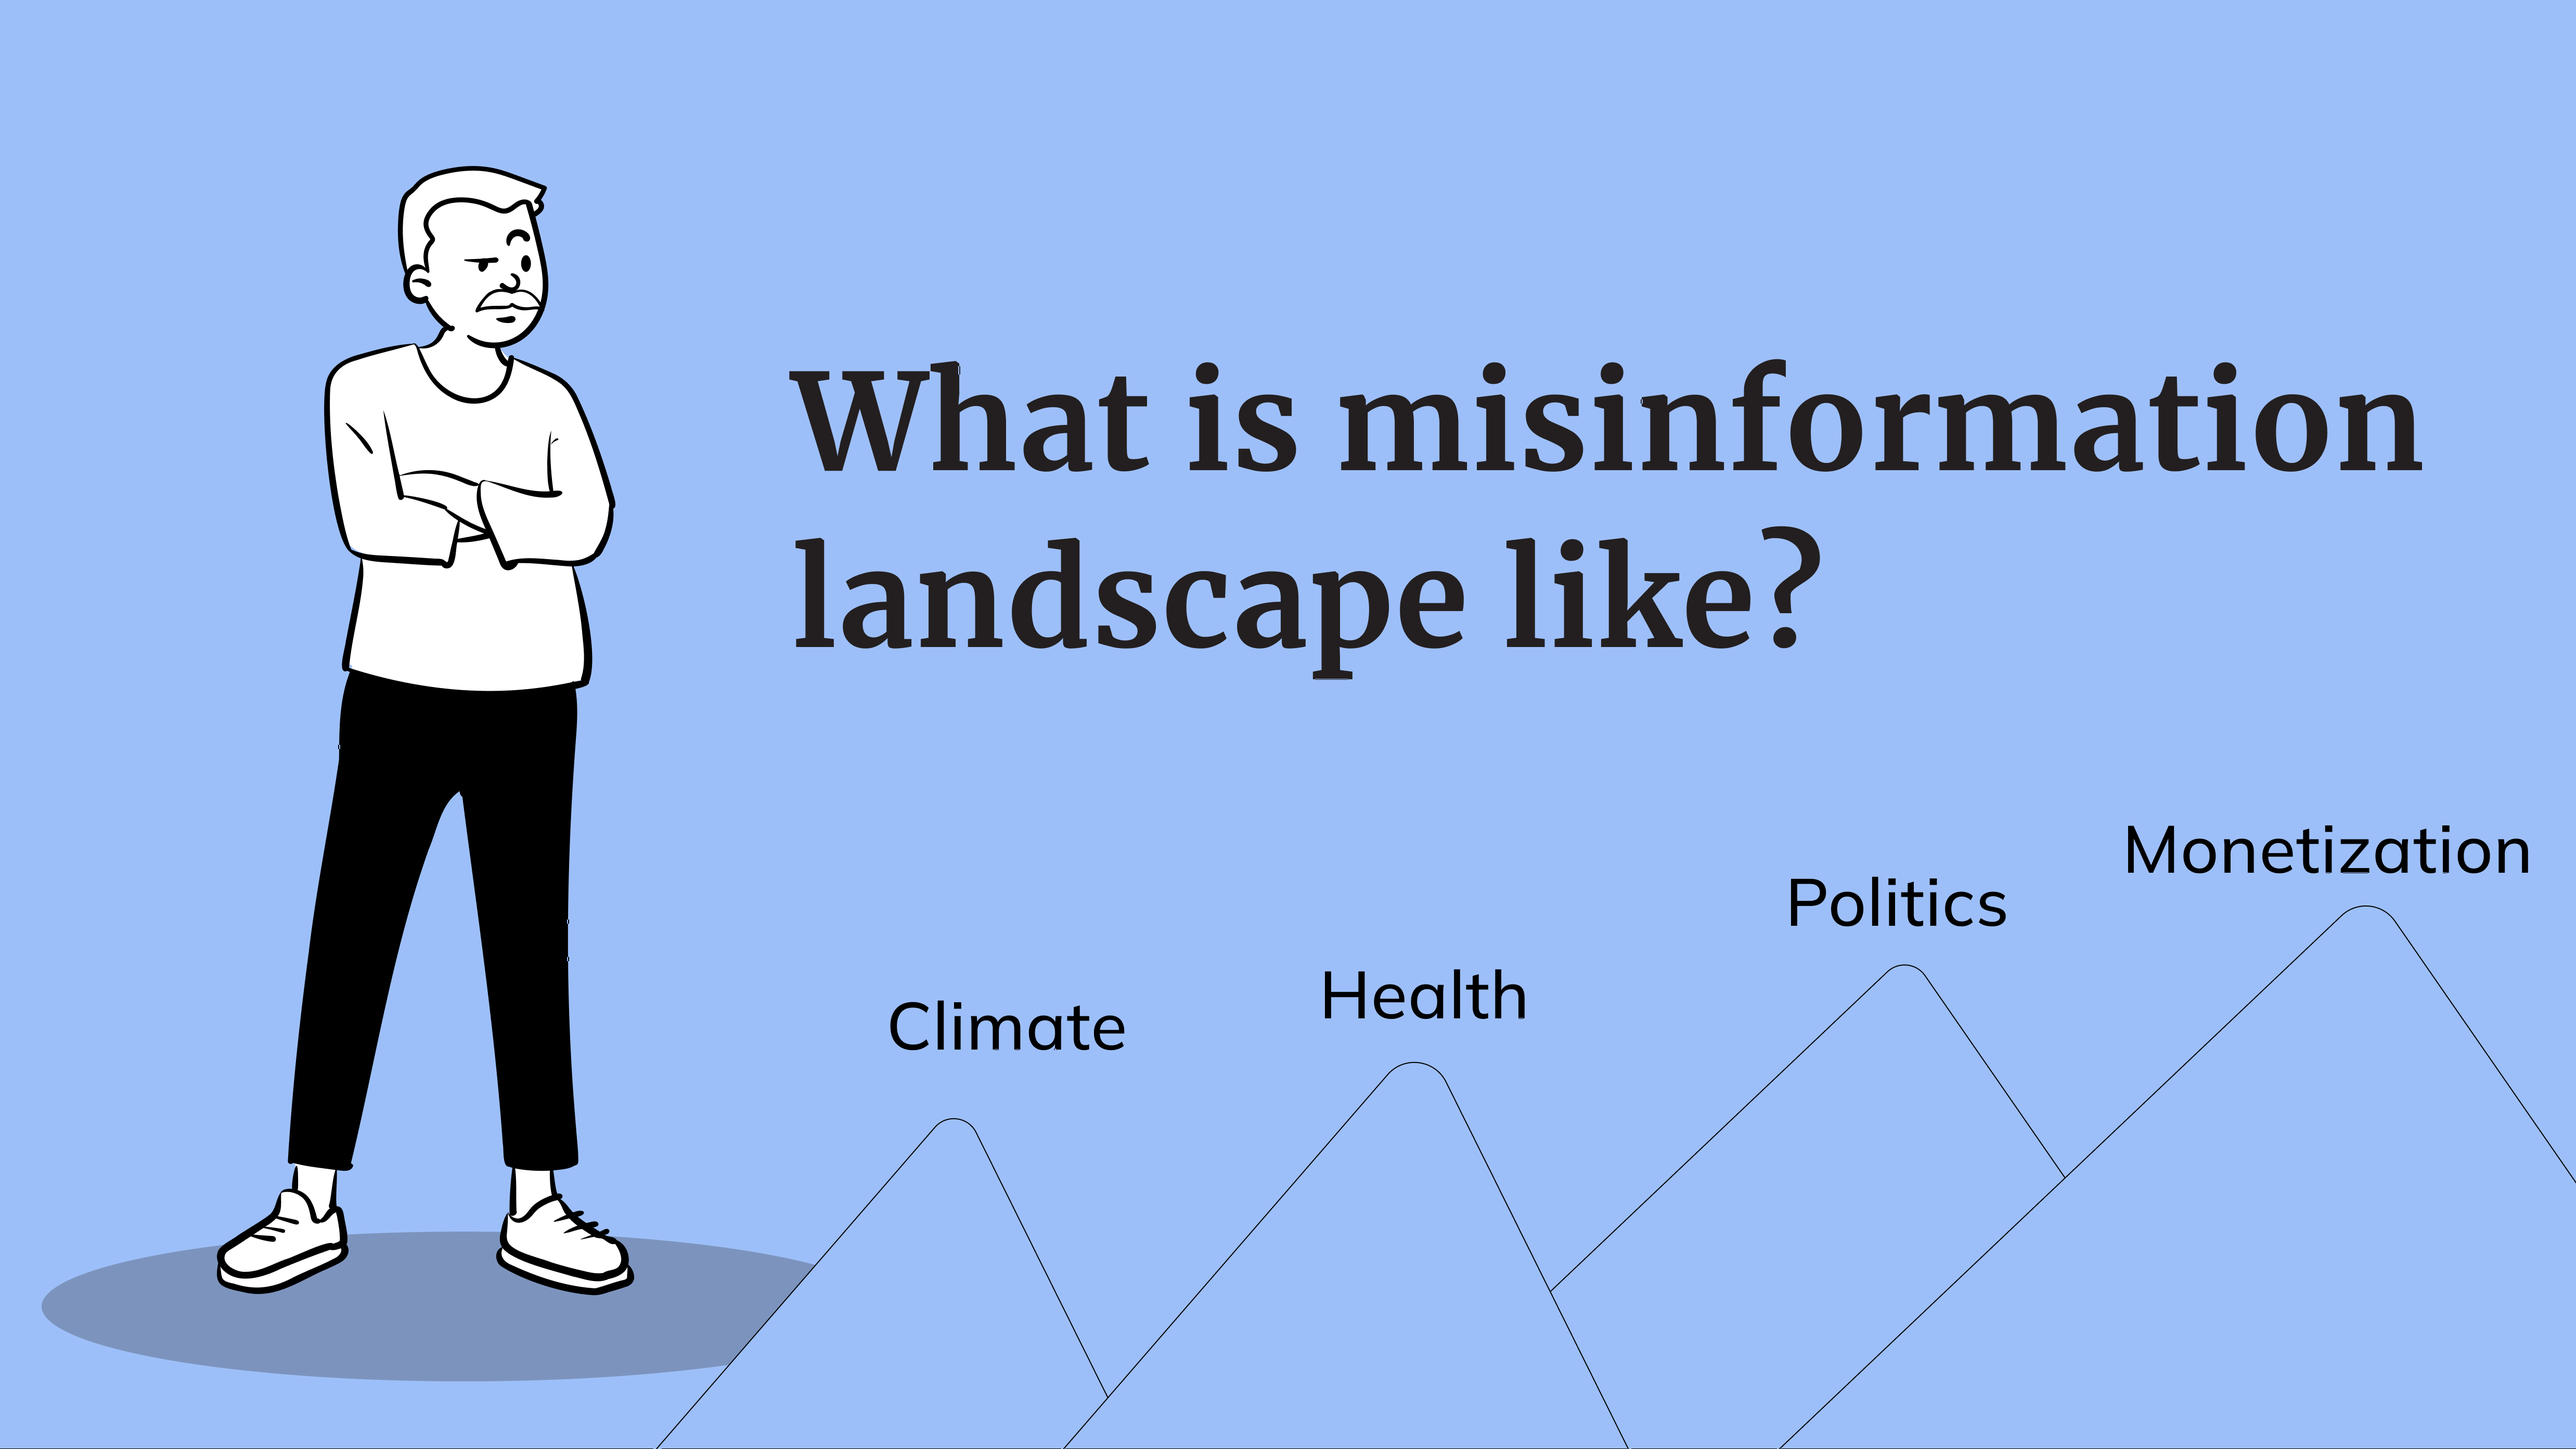
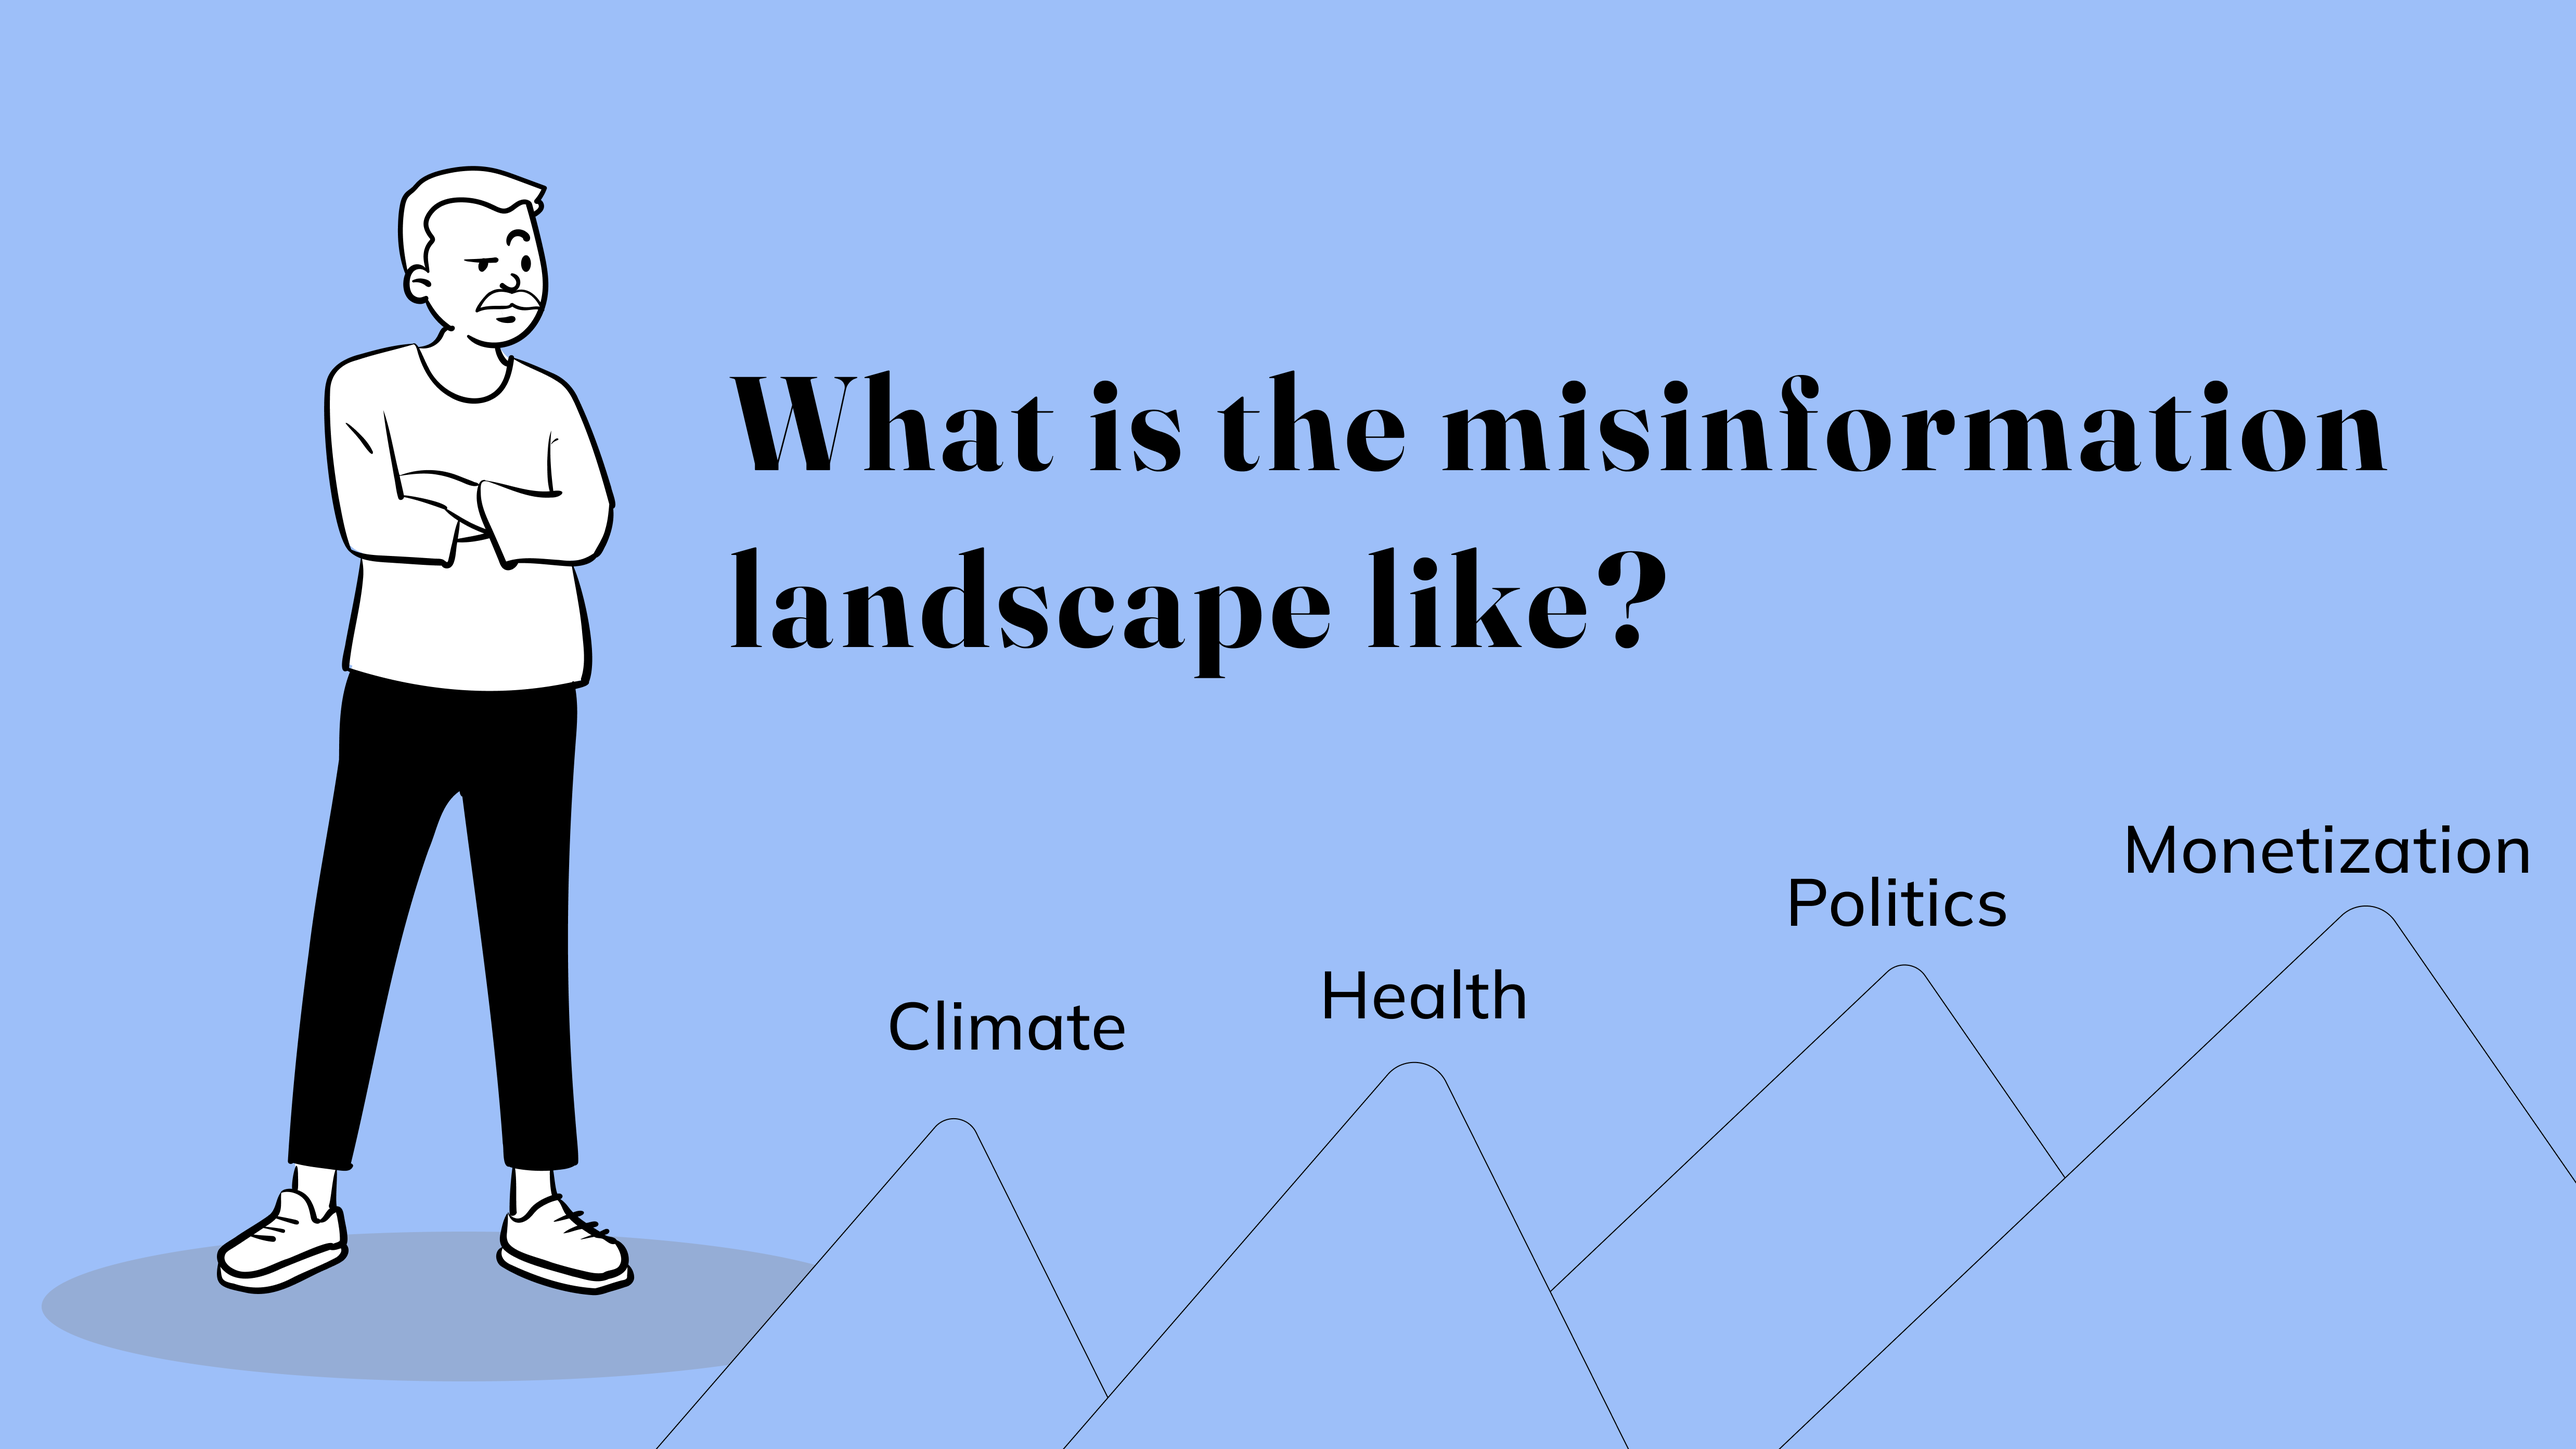
Update User thinking image in Misinformation Center case study

Changed region(s): [[0.2799, 0.2498, 0.9641, 0.4684], [0.0, 0.8431, 0.311, 0.9681], [0.0, 0.9993, 1.0, 1.0]]

diff --git a/app/work/[slug]/page.tsx b/app/work/[slug]/page.tsx
@@ -719,7 +719,7 @@ const caseStudies = {
   </div>
 </div>
 
-<img src="/images/misinformation-center/Facebook misinformation center.png" alt="Facebook Misinformation Center wireframes — the killed direction" style="width: 100%; border-radius: 8px; margin-top: 32px; margin-bottom: 32px; display: block;" />
+<img src="/images/misinformation-center/User thinking.png" alt="The generational chain diagram and three archetype cards with real interview quotes" style="width: 100%; border-radius: 8px; margin-top: 32px; margin-bottom: 32px; display: block;" />
 
 <p style="margin-top: 36px;"><span style="font-weight: 600;">What Misinfo Day revealed that recruited testing couldn't.</span> Small-scale testing shows what people say; live testing with unrecruited crowds shows what they do. Younger participants abandoned any flow that felt like reading within seconds. Older participants trusted Ask Us over automated ratings — a person's judgment over an algorithm's output. Both loved the quiz for different reasons: younger users competitively, older users because it felt like learning rather than being corrected. The parallel escape-room sessions surfaced the sharpest insight: engagement spiked when detection was framed as a skill, not a correction. People didn't want to be told they were wrong. They wanted to feel smart for getting it right.</p>`
       },
